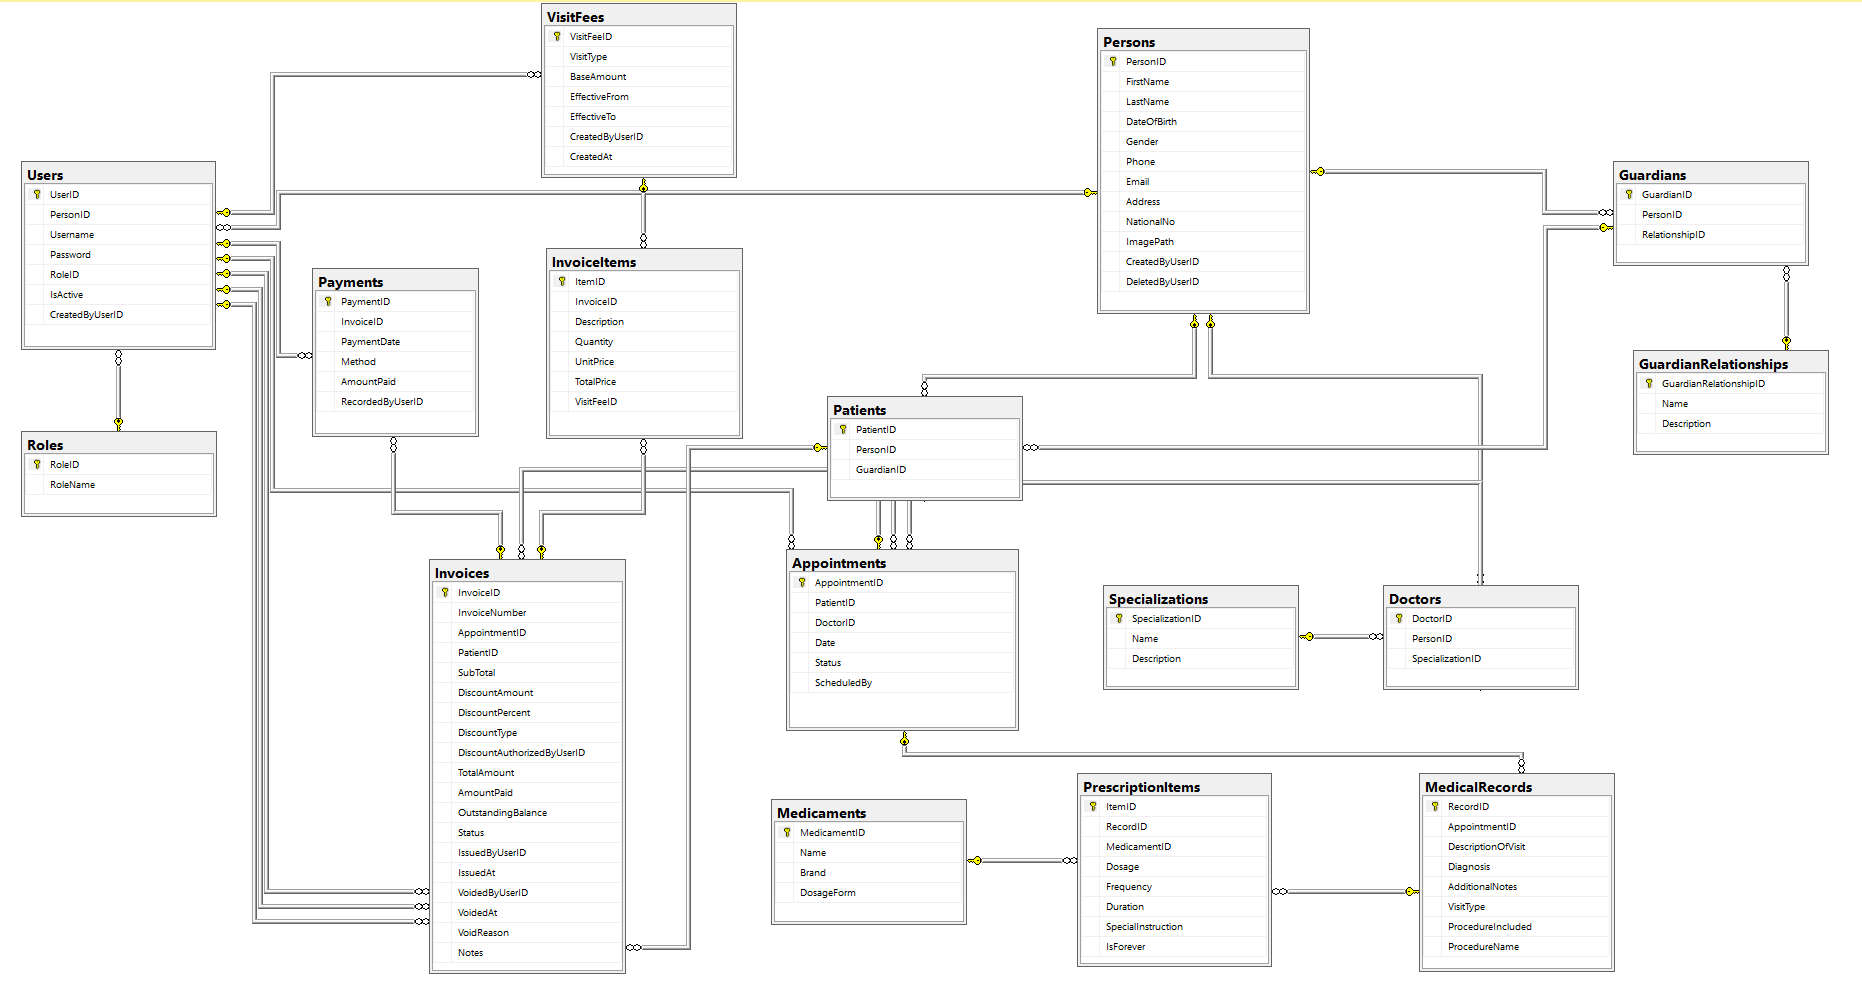
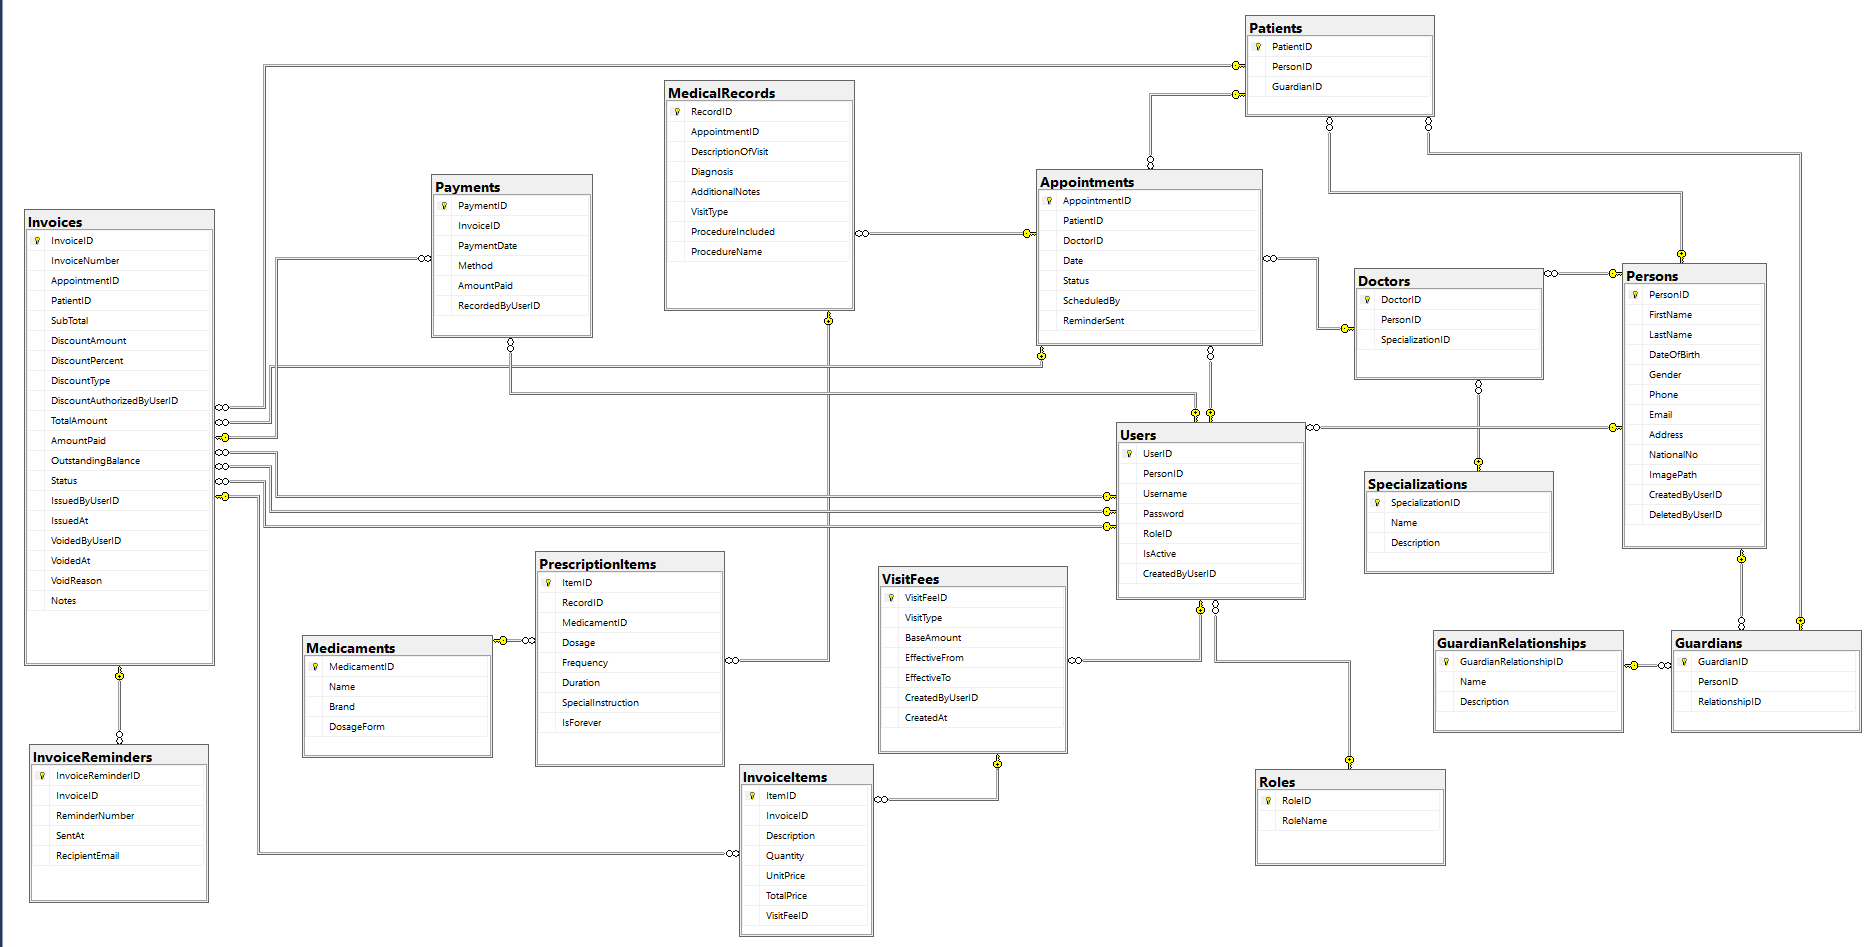
update readme

diff --git a/README.md b/README.md
@@ -3,17 +3,18 @@
   <img src="https://img.shields.io/badge/C%23-239120?style=for-the-badge&logo=csharp&logoColor=white" alt="C#"/>
   <img src="https://img.shields.io/badge/SQL%20Server-CC2927?style=for-the-badge&logo=microsoftsqlserver&logoColor=white" alt="SQL Server"/>
   <img src="https://img.shields.io/badge/Windows%20Forms-0078D6?style=for-the-badge&logo=windows&logoColor=white" alt="Windows Forms"/>
+  <img src="https://img.shields.io/badge/Windows%20Service-0078D6?style=for-the-badge&logo=windows&logoColor=white" alt="Windows Service"/>
 </p>
 
 <h1 align="center">ClinicWise</h1>
 
 <p align="center">
-  <strong>A desktop clinic management system built with Windows Forms, C#, and SQL Server.</strong>
+  <strong>A desktop clinic management system with a Windows Service background worker, built with Windows Forms, C#, and SQL Server.</strong>
 </p>
 
-ClinicWise is a .NET Framework 4.8 application for managing clinic operations from registration through appointments, medical records, prescriptions, invoicing, and payment tracking. The codebase is organized around a layered architecture with a WinForms presentation project, a business layer, shared DTO contracts, and SQL Server data access.
+ClinicWise is a .NET Framework 4.8 application for managing clinic operations from registration through appointments, medical records, prescriptions, invoicing, and payment tracking. The codebase is organized around a layered architecture with a WinForms presentation project, a Windows Service background worker, a business layer, shared DTO contracts, and SQL Server data access.
 
-The project focuses on practical clinic workflows: patient and doctor records, guardian handling for minors, appointment lifecycle management, medical documentation, medication catalogs, visit fees, invoices, and payments.
+The project focuses on practical clinic workflows: patient and doctor records, guardian handling for minors, appointment lifecycle management, medical documentation, medication catalogs, visit fees, invoices, payments, reminder emails, and automatic background status updates.
 
 ## Features
 
@@ -27,6 +28,7 @@ The project focuses on practical clinic workflows: patient and doctor records, g
 | Prescriptions | Prescription items tied to medical records with dosage, frequency, and duration information |
 | Financials | Visit fees, invoice items, invoices, discounts, voiding, outstanding balances, and payment tracking |
 | Users and roles | Login, user management, role lookup, active/inactive status, and password changes |
+| Background service | Automatic appointment reminders, missed-appointment no-show marking, invoice payment reminders, and final overdue notices |
 | Database layer | Stored procedures, SQL views, triggers, and a scalar function for active visit fee checks |
 
 ## Domain Rules
@@ -83,13 +85,41 @@ public enum enInvoiceStatus
 }
 ```
 
+Background service settings:
+
+```xml
+<appSettings>
+  <add key="IntervalHours" value="2"/>
+  <add key="NoShowThresholdMinutes" value="60"/>
+  <add key="InvoiceReminderMaxCount" value="3"/>
+  <add key="InvoiceReminderIntervalDays" value="7"/>
+  <add key="SmtpHost" value="smtp.gmail.com"/>
+  <add key="SmtpPort" value="587"/>
+  <add key="SmtpUser" value="[email redacted]"/>
+  <add key="SmtpPass" value="your-app-password"/>
+</appSettings>
+```
+
+The Windows Service runs all background jobs when it starts and then repeats them every `IntervalHours`. It can also run interactively from the executable for local debugging.
+
+Background jobs:
+
+- `NoShowMarkingJob` marks confirmed or rescheduled appointments as `NoShow` after the configured threshold and sends missed-appointment emails.
+- `AppointmentReminderJob` sends reminder emails for tomorrow's appointments that have not already been marked as reminded.
+- `InvoiceReminderJob` sends payment reminders for outstanding invoices, logs invoice reminder history, and marks invoices overdue after the configured reminder limit.
+
 ## Architecture
 
 The main application follows a layered design:
 
 ```text
 ClinicWise                 Windows Forms UI
-    |
+    |                         |
+    |                         |
+ClinicWise.Service           Windows Service background jobs
+    |                         |
+    `-----------.-------------`
+                v
 ClinicWise.Business        Domain logic and workflow rules
     |
 ClinicWise.Contracts       DTOs and shared enums
@@ -107,6 +137,8 @@ Key patterns and practices used in the codebase:
 - Stored procedures for most database writes and reads.
 - SQL views for display-oriented data such as appointments, invoices, payments, users, doctors, and patients.
 - Triggers for invoice/payment status synchronization and audit-style database behavior.
+- Windows Service jobs for scheduled operational work outside the WinForms UI.
+- SMTP email delivery for appointment and invoice notifications.
 - SHA-256 password hashing.
 - AES encryption for locally remembered credentials.
 - Windows Event Log integration for error logging.
@@ -139,9 +171,12 @@ Key patterns and practices used in the codebase:
 |   `-- ClinicWise.sln
 |-- ClinicWise.Business/
 |   |-- ClinicHours.cs
+|   |-- Services/
+|   |   `-- EmailService.cs
 |   |-- clsAppointment.cs
 |   |-- clsDoctor.cs
 |   |-- clsInvoice.cs
+|   |-- clsInvoiceReminder.cs
 |   |-- clsMedicalRecord.cs
 |   |-- clsMedicament.cs
 |   |-- clsPatient.cs
@@ -161,6 +196,15 @@ Key patterns and practices used in the codebase:
 |   |-- PrescriptionItems/
 |   |-- Users/
 |   `-- VisitTypeFees/
+|-- ClinicWise.Service/
+|   |-- Jobs/
+|   |   |-- AppointmentReminderJob.cs
+|   |   |-- InvoiceReminderJob.cs
+|   |   `-- NoShowMarkingJob.cs
+|   |-- App.config
+|   |-- ClinicWiseService.cs
+|   |-- Program.cs
+|   `-- ProjectInstaller.cs
 `-- ClinicWise.DataAccess/
     |-- Functions/
     |-- StoredProcedures/
@@ -184,7 +228,17 @@ The repository includes:
   <img src="Database Schema.png" alt="ClinicWise database schema" width="100%"/>
 </p>
 
-Main database areas include persons, patients, guardians, doctors, users, roles, appointments, medical records, prescription items, medicaments, visit type fees, invoices, invoice items, and payments.
+Main database areas include persons, patients, guardians, doctors, users, roles, appointments, medical records, prescription items, medicaments, visit type fees, invoices, invoice reminders, invoice items, and payments.
+
+Service-related SQL assets include:
+
+- `Appointment_MarkAndGetNoShowAppointments.sql`
+- `Appointment_GetTomorrowsPendingReminder.sql`
+- `Appointment_MarkReminderAsSent.sql`
+- `Invoice_GetInvoicesDueForReminder.sql`
+- `Invoice_MarkOverdue.sql`
+- `InvoiceReminder_AddNew.sql`
+- `InvoiceReminder_GetLatestByInvoiceID.sql`
 
 ## Getting Started
 
@@ -194,6 +248,8 @@ Main database areas include persons, patients, guardians, doctors, users, roles,
 - .NET Framework 4.8 Developer Pack.
 - SQL Server or SQL Server Express.
 - SQL Server Management Studio, Azure Data Studio, or another tool capable of restoring `.bak` files.
+- Administrator access if you want to install or control the Windows Service locally.
+- SMTP credentials for the email reminder features.
 
 ### Setup
 
@@ -212,7 +268,7 @@ Main database areas include persons, patients, guardians, doctors, users, roles,
 
 3. Configure the database connection.
 
-   Open `ClinicWise/App.config` and update the `DatabaseConnection` connection string if your SQL Server instance is not local:
+   Open both `ClinicWise/App.config` and `ClinicWise.Service/App.config`, then update the `DatabaseConnection` connection string if your SQL Server instance is not local:
 
    ```xml
    <connectionStrings>
@@ -223,12 +279,50 @@ Main database areas include persons, patients, guardians, doctors, users, roles,
    </connectionStrings>
    ```
 
-4. Build and run the application.
+4. Configure service reminder and email settings.
+
+   Open `ClinicWise.Service/App.config` and set:
+
+   - `IntervalHours`: how often the service runs all jobs.
+   - `NoShowThresholdMinutes`: how long after an appointment time before it can be marked as no-show.
+   - `InvoiceReminderMaxCount`: how many invoice reminders are sent before final overdue handling.
+   - `InvoiceReminderIntervalDays`: how many days to wait between invoice reminders.
+   - `SmtpHost`, `SmtpPort`, `SmtpUser`, and `SmtpPass`: the SMTP account used to send emails.
+
+   For Gmail, `SmtpPass` should be an app password, not the normal account password. Avoid committing real production credentials.
+
+5. Build and run the desktop application.
 
    - Open `ClinicWise/ClinicWise.sln`.
    - Restore/build the solution in Visual Studio.
    - Set `ClinicWise` as the startup project.
    - Run the application.
+
+6. Test the service in console mode.
+
+   After building, run the service executable directly from a terminal. Because `Program.Main` checks `Environment.UserInteractive`, the service starts in console mode and waits for Enter before stopping.
+
+   ```powershell
+   .\ClinicWise.Service\bin\Debug\ClinicWise.Service.exe
+   ```
+
+7. Install the Windows Service.
+
+   Run the following from an elevated Developer Command Prompt or elevated PowerShell after building the service:
+
+   ```powershell
+   & "$env:WINDIR\Microsoft.NET\Framework64\v4.0.30319\InstallUtil.exe" ".\ClinicWise.Service\bin\Release\ClinicWise.Service.exe"
+   Start-Service ClinicWiseService
+   ```
+
+   To stop and uninstall it:
+
+   ```powershell
+   Stop-Service ClinicWiseService
+   & "$env:WINDIR\Microsoft.NET\Framework64\v4.0.30319\InstallUtil.exe" /u ".\ClinicWise.Service\bin\Release\ClinicWise.Service.exe"
+   ```
+
+   The installer registers the service as `ClinicWiseService` with the display name `ClinicWise Background Service`.
 
 ## Current Status
 
@@ -240,6 +334,9 @@ Implemented modules:
 - Pharmacy/medicament catalog management.
 - Visit fee management.
 - Invoice, invoice item, discount, voiding, and payment workflows.
+- Windows Service project for automatic no-show processing, appointment reminders, invoice reminders, and overdue notices.
+- SMTP email service used by appointment and invoice notification workflows.
+- Invoice reminder tracking through `InvoiceReminders` data access and stored procedures.
 - SQL Server scripts for stored procedures, views, triggers, and fee validation.
 
 Possible next improvements:
@@ -248,6 +345,8 @@ Possible next improvements:
 - Add screenshots for the main screens.
 - Add a formal license file if the project should be open sourced under a specific license.
 - Add setup scripts for creating or migrating the database without restoring a backup.
+- Move SMTP credentials and operational secrets out of committed config files for production deployments.
+- Add richer service logging for each job run and email delivery result.
 - Improve configuration documentation for production-like environments.
 
 ## Author